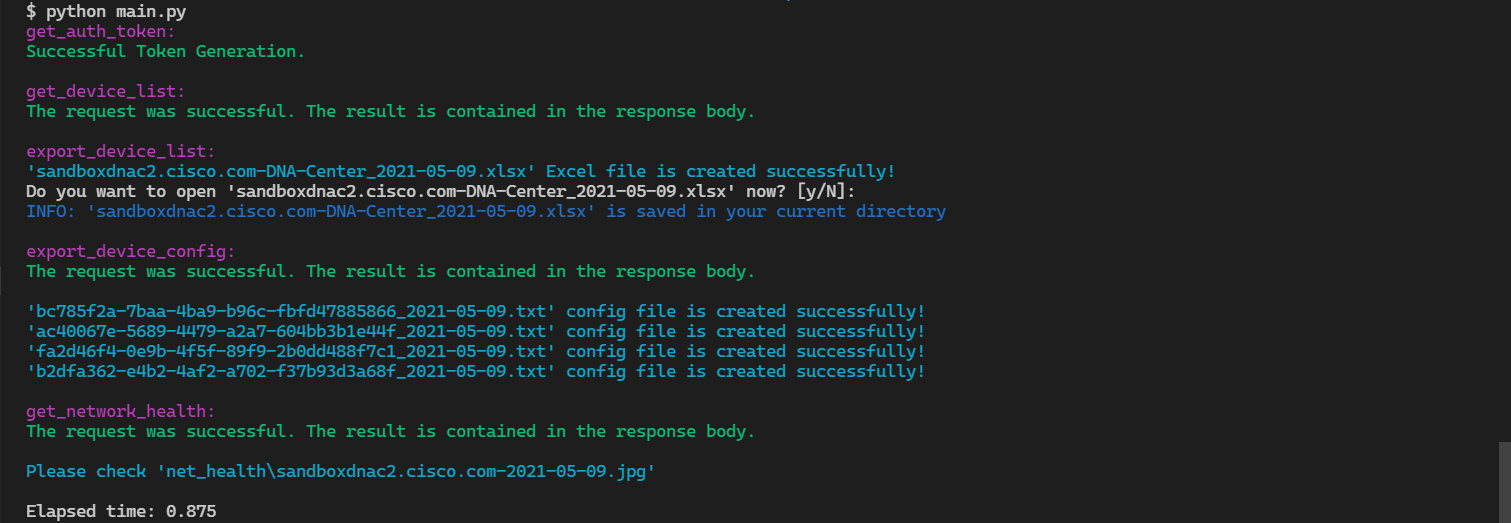
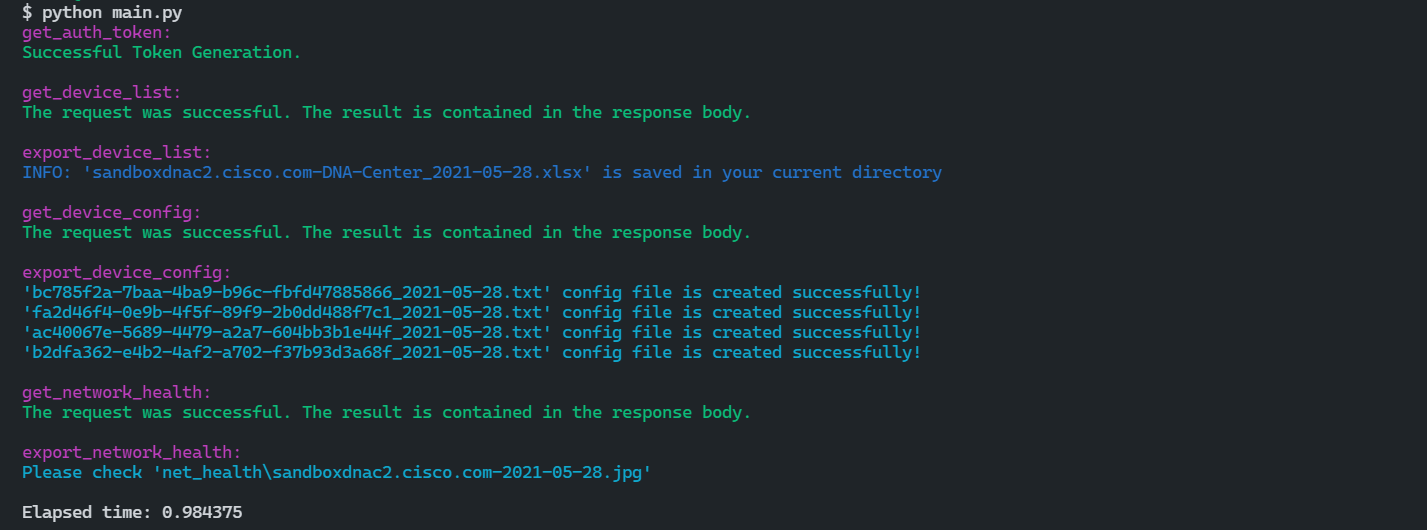
Update README

diff --git a/README.md b/README.md
@@ -34,9 +34,11 @@ $ pip install -r requirements.txt
 │   main.py
 │   get_auth_token.py
 │   get_device_list.py
+│   get_device_config.py
+│   get_network_health.py
 │   export_device_list.py
 │   export_device_config.py
-│   get_network_health.py
+│   export_network_health.py
 │   .env.example
 │   requirements.txt
 │   README.md
@@ -58,9 +60,9 @@ $ pip install -r requirements.txt
 
 ### Usage
 
-You need to provide your DNA Center credentials in a `.env` file. Create a `.env` file from `.env.example` and **DON'T** delete the latter (Check **Use it for your DNA Center** section).
+You need to provide your Cisco DNA Center credentials in a `.env` file. Create a `.env` file from `.env.example` and **DON'T** delete the latter (Check **Use it for your DNA Center** section).
 
-> **A `.env` file in the current working directory will override the `.env.example`.**
+> **A `.env` file in the current working directory will override the `.env.example` values.**
 
 **Then run:**
 
@@ -68,11 +70,9 @@ You need to provide your DNA Center credentials in a `.env` file. Create a `.env
 python main.py
 ```
 
-Voila :sparkles:! An Excel file is created automatically from the device list on Cisco DNAC in the current working directory, configuration files of those devices are created in `configs/<DOMAIN>/<today>/<config_id>_<today>.txt`, and a network health diagram **(a bar chart with legend)** is created in `net_health/<BASE_URL>-<today>.jpg`.
+Voila :sparkles:! An Excel file is created automatically from the device list on Cisco DNAC in the current working directory, configuration files of those devices are created in `configs/<DOMAIN>/<today>/<config_id>_<today>.txt`, and a network health diagram **(a bar chart with a legend)** is created in `net_health/<BASE_URL>-<today>.jpg`.
 
-> You will be prompted either to open the generated Excel file or just skip and continue running the program.
-
-> `XlsxWriter` does not give you the option to append new data to a created opened file (As with text files). So every time you send a request, the Excel file will be overwritten.
+> `XlsxWriter` library does not give you the option to append new data to a created opened Excel file (As with text files). So every time you send a request, the Excel file will be overwritten.
 
 > **NOTE:** You should close the Excel program before sending any new requests.
 
@@ -81,7 +81,7 @@ Voila :sparkles:! An Excel file is created automatically from the device list on
 You will be notified with a native toast notification upon script successful completion.
 ![Toast Notification](assets/toast-notification.png)
 
-### Collected Data from Response
+### Collected Data from Device List Response
 
 1. Hostname
 2. Device ID
@@ -97,7 +97,7 @@ You will be notified with a native toast notification upon script successful com
 
 ### Use it for your DNA Center
 
-This program is ready to be used for your deployed DNA Center.
+This program is ready to be used for your deployed Cisco DNA Center.
 
 **Create a `.env` file from `.env.example`:**
 
@@ -116,7 +116,7 @@ DOMAIN=10.10.1.1 # without a trailing slash (/)
 BASE_URL=https://${DOMAIN}
 USERNAME=root
 PASSWORD=CiscoAdmin!2345
-SSL_CERTIFICATE=False # set to True if you have valid SSL certificate
+SSL_CERTIFICATE=False # set to True ONLY if you have valid SSL certificate
 ```
 
 ### References
@@ -131,7 +131,7 @@ SSL_CERTIFICATE=False # set to True if you have valid SSL certificate
 
 ### Previews
 
-**_Logs_**
+**_Script Logs_**
 ![Script Logs](assets/script-logs.png)
 
 **_Excel File Preview_**
